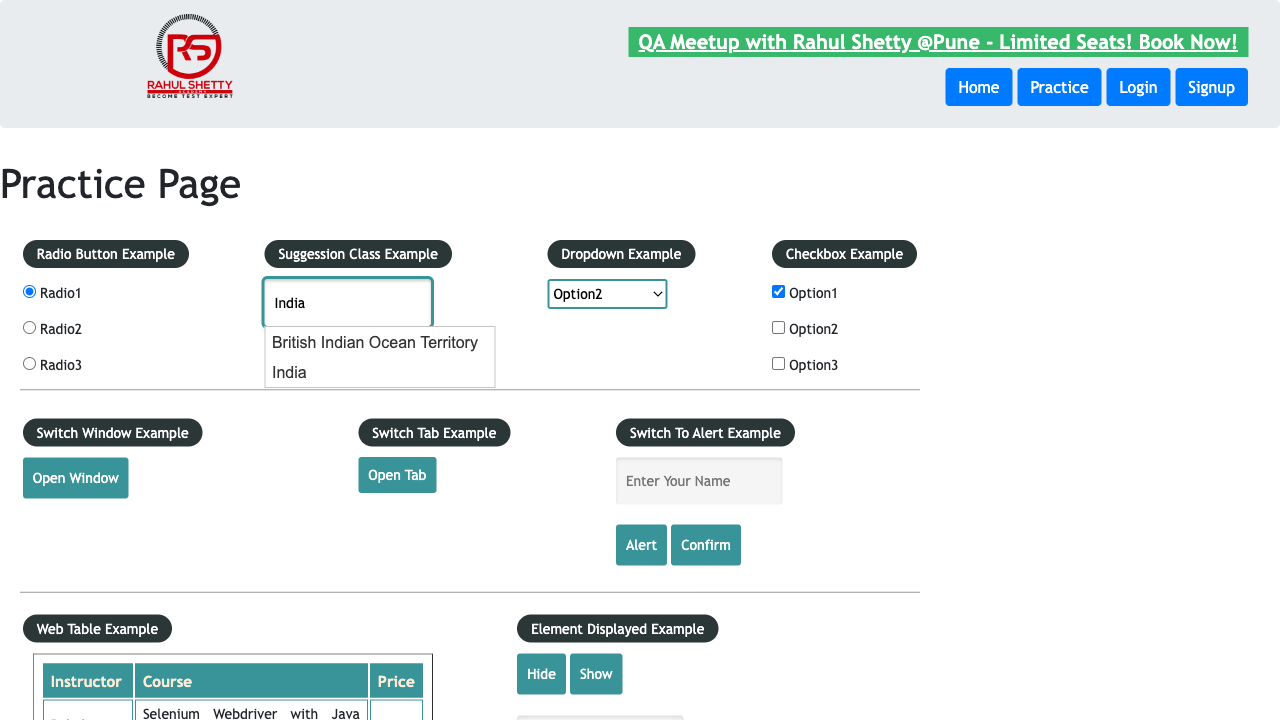
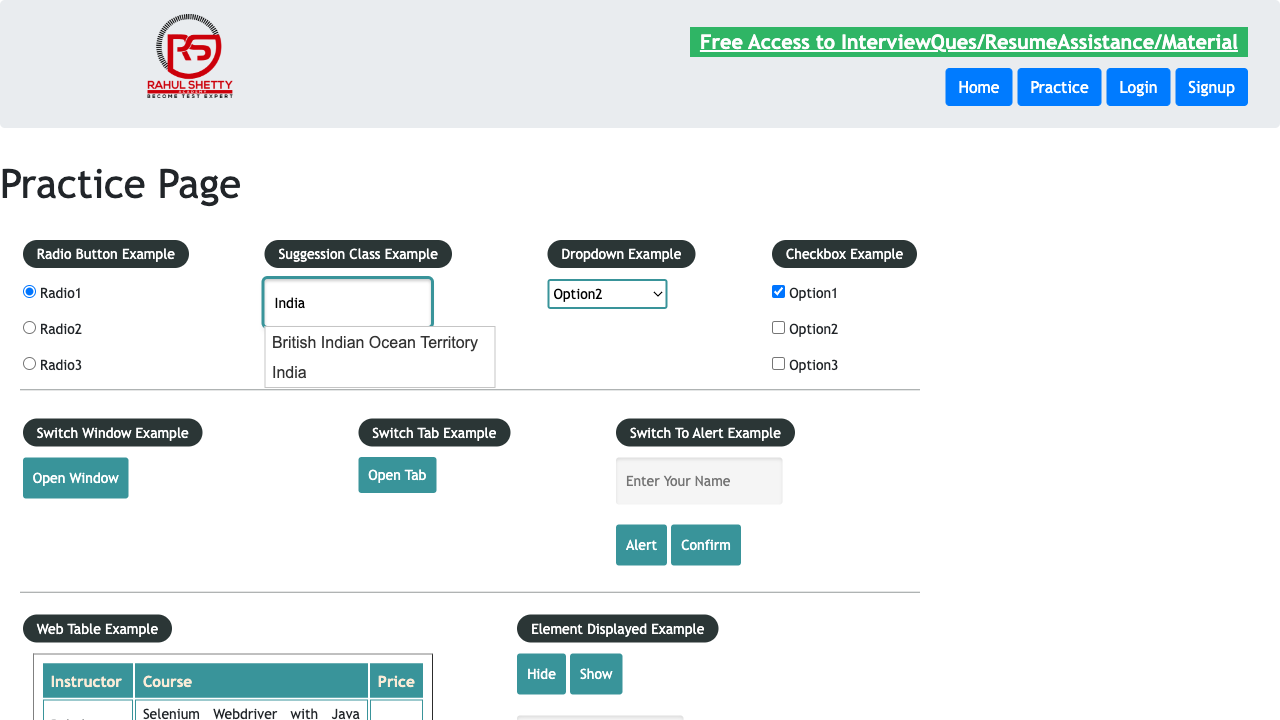
pushing latest code for pipeling

Changed region(s): [[0.4688, 0.0306, 0.9688, 0.0917]]

diff --git a/tests/openBrowser.Spec.ts b/tests/openBrowser.Spec.ts
@@ -26,7 +26,7 @@ test('open icc website',  async () => {
 });
 
 
-test.only('new test', async({page})=>{
+test('new test test.step()', async({page})=>{
 
 await page.goto('https://rahulshettyacademy.com/AutomationPractice/');
 
@@ -34,6 +34,7 @@ await page.locator('#confirmbtn').click();
 await page.on('dialog',async d=>d.accept());
 const frame= page.frameLocator('#courses-iframe')
 await frame.getByRole('link', { name: ' Register' }).click();
+console.log('Test Info:', test.info());
 
 const [newPage]=await Promise.all([
 
@@ -42,5 +43,40 @@ const [newPage]=await Promise.all([
 ]);
 
 expect(newPage.url()).toBe('https://www.qaclickacademy.com/');
+await newPage.mouse.dblclick(200,300,{delay:100});
+//await newPage.mouse.click(100,100,{button:'right'});
+await newPage.mouse.click(0,100,{button:'left'})
+await newPage.mouse.wheel(0,100);
+
+
 
 });
+
+test('practice on keyboard event',async ()=>{
+
+    const browser:Browser= await chromium.launch();
+    const context:Context= await browser.newContext();
+    const page:Page = await context.newPage();
+
+    await page.goto('https://rahulshettyacademy.com/AutomationPractice/');
+  
+
+await page.keyboard.insertText("my name is rohit singh");
+await page.keyboard.press('ArrowLeft');
+await page.keyboard.down('Shift');
+
+for(let st =0;st< 'singh'.length;st++){
+
+   
+    await page.keyboard.press('ArrowLeft');
+
+}
+await page.keyboard.press('Backspace');
+await page.keyboard.up('Shift');
+//page.locator('').setInputFiles('' );
+
+    
+
+
+});
+

diff --git a/tests/FirstTest.spec.ts b/tests/FirstTest.spec.ts
@@ -13,12 +13,12 @@ test('login test',  async () => {
   const login:Locator= page.locator("xpath=//li[@id='menu-item-85']//a[contains(text(),'Login')]");
   const emailField: Locator =  page.locator("xpath=//input[@name='email']");
   const passwordField: Locator =  page.locator("xpath=//input[@name='password']");
-  const submitButton:Locator = page.locator("xpath=//button[@type='submit']");
+  //const submitButton:Locator = page.locator("xpath=//button[@type='submit']");
  
   await login.click();
   await emailField.fill("singh");
   await passwordField.fill("namr");
-  await submitButton.click();
+  //await submitButton.click();
 
   // Your test actions here
 

diff --git a/tests/dynamicDropDown.spec.ts b/tests/dynamicDropDown.spec.ts
@@ -1,13 +1,12 @@
 import {test ,expect,Browser ,Page,firefox,webkit,chromium} from '@playwright/test'
      
-import { Context } from 'vm';
 
 
 test(' select dynamic dropdown',async()=>{
 
     const browser:Browser= await chromium.launch()
 
-      const context:Context=   await browser.newContext();
+      const context=   await browser.newContext();
 
      const page:Page= await context.newPage();
 
@@ -19,7 +18,7 @@ test(' select dynamic dropdown',async()=>{
      //await page.getByRole('link', { name: 'Product Overview' }).hover();
     await page.locator("xpath = //a[text()='Advanced Overview (Long)']").first().click();
 
-     page.pause();
+     
 
 
 });

diff --git a/playwright.config.ts b/playwright.config.ts
@@ -25,7 +25,7 @@ export default defineConfig({
   workers: process.env.CI ? 1 : undefined,
   /* Reporter to use. See https://playwright.dev/docs/test-reporters */
   reporter: 'html',
-  //[['html', { open: 'never' }]],
+  //['html', { open: 'never' }]],
   /* Shared settings for all the projects below. See https://playwright.dev/docs/api/class-testoptions. */
   use: {
    

diff --git a/tests/validateDropDownAndWindows.spec.ts b/tests/validateDropDownAndWindows.spec.ts
@@ -22,7 +22,7 @@ console.log(await newPage.title());
 
 });
 
-test.only('validiting javascript alerts',async()=>{
+test('validiting javascript alerts',async()=>{
 
     const browser:Browser= await chromium.launch();
     const context:BrowserContext= await browser.newContext();
